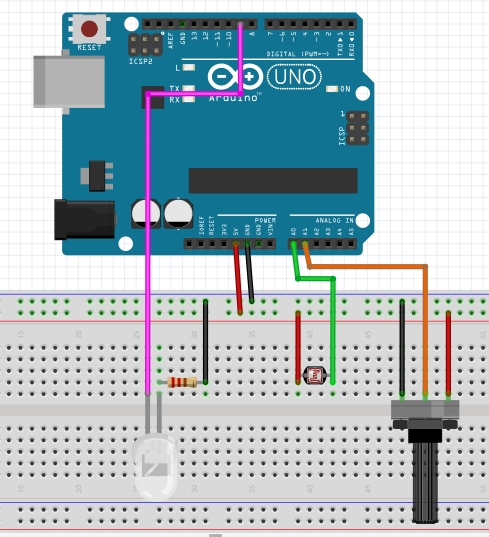
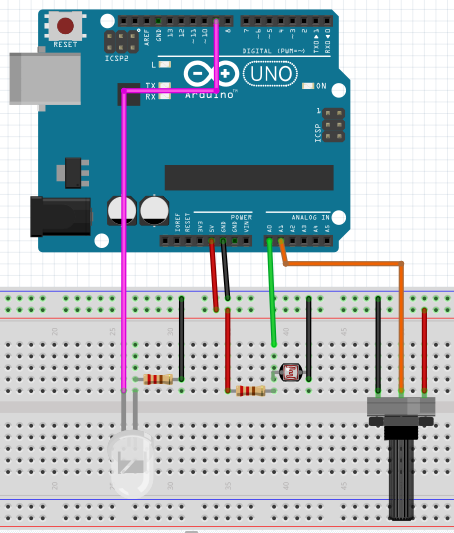
ma oi

Changed region(s): [[0.0, 0.0, 1.0, 1.0]]

diff --git a/README.md b/README.md
@@ -1,4 +1,10 @@
 # PID_LDR_LED
 
 1. Código de controle da resistência de um LDR (Light Dependent Resistor) através da intensidade luminosa de um LED.
+
+![image](https://github.com/TallesSilva/PID_LDR_LED/blob/master/image/circuito.PNG?raw=true)
+
+2. Curva caracteristica de um LDR.
 ![image]()
+
+3.
